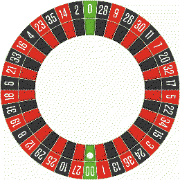
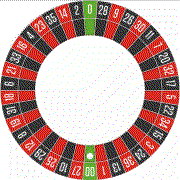
Improved graphics

diff --git a/src/c/main.c b/src/c/main.c
@@ -42,8 +42,8 @@ static void main_window_load(Window *window) {
   GRect bounds = layer_get_bounds(window_layer);
 
   //background
-  //bmptr = gbitmap_create_with_resource(RESOURCE_ID_WHEEL_NO_CENTER);
-  bmptr = gbitmap_create_with_resource(RESOURCE_ID_WHEEL);
+  bmptr = gbitmap_create_with_resource(RESOURCE_ID_WHEEL_NO_CENTER);
+  //bmptr = gbitmap_create_with_resource(RESOURCE_ID_WHEEL);
   mblyr = bitmap_layer_create(bounds);
   bitmap_layer_set_bitmap(mblyr,bmptr);
   layer_add_child(window_layer, bitmap_layer_get_layer(mblyr));
@@ -62,7 +62,7 @@ static void main_window_load(Window *window) {
   s_time_layer = text_layer_create(
       GRect(0, time_y, bounds.size.w, 60));
   text_layer_set_background_color(s_time_layer, GColorClear);
-  text_layer_set_text_color(s_time_layer, GColorWhite);
+  text_layer_set_text_color(s_time_layer, GColorBlack);
   text_layer_set_font(s_time_layer, s_time_font);
   text_layer_set_text_alignment(s_time_layer, GTextAlignmentCenter);
 
@@ -70,7 +70,7 @@ static void main_window_load(Window *window) {
   s_date_layer = text_layer_create(
       GRect(0, date_y, bounds.size.w, 30));
   text_layer_set_background_color(s_date_layer, GColorClear);
-  text_layer_set_text_color(s_date_layer, GColorWhite);
+  text_layer_set_text_color(s_date_layer, GColorBlack);
   text_layer_set_font(s_date_layer, s_date_font);
   text_layer_set_text_alignment(s_date_layer, GTextAlignmentCenter);
 
